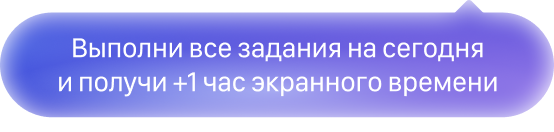
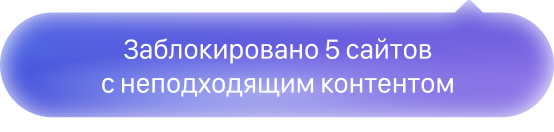
Adjust control-intro copy and header descriptor

Changed region(s): [[0.1227, 0.2727, 0.8899, 0.4848], [0.0921, 0.5455, 0.9206, 0.7273]]

diff --git a/index.html b/index.html
@@ -14,7 +14,7 @@
                 <img src="img/logo-sign.svg" alt="Kids360 Icon" class="header-logo-sign">
                 <div class="header-logo-text-block">
                     <img src="img/logo-text.svg" alt="Kids360 Logo" class="header-logo-text">
-                    <div class="header-logo-descriptor">Осознанные привычки для семьи</div>
+                    <div class="header-logo-descriptor">Родительский контроль и геолокация</div>
                 </div>
             </a>
             <nav class="header-nav">
@@ -86,7 +86,7 @@
             </div>
             <div class="control-intro-content">
                 <h2 class="control-intro-title">Управляйте временем</h2>
-                <p class="control-intro-text">ребёнка в телефоне, блокируйте приложения и контролируйте контент в интернете</p>
+                <p class="control-intro-text">блокируйте приложения и контролируйте контент в интернете по возрасту ребенка.</p>
                 <ul class="control-feature-list">
                     <li>Гибкие лимиты по времени экрана на каждый день недели</li>
                     <li>Мгновенная пауза и запуск занятий в один тап</li>
@@ -108,7 +108,7 @@
             </div>
             <div class="control-intro-content">
                 <h2 class="control-intro-title">Настройте темы обучающего контента</h2>
-                <p class="control-intro-text">в умные паузы для переключения внимания</p>
+                <p class="control-intro-text">в умные паузы будут интегрированы полезные темы для изучения</p>
                 <ul class="control-feature-list">
                     <li>Выбирайте темы: логика, чтение, внимание и математика</li>
                     <li>Подстраивайте сложность под возраст ребёнка</li>
@@ -130,7 +130,7 @@
             </div>
             <div class="control-intro-content">
                 <h2 class="control-intro-title">Формируйте полезные привычки</h2>
-                <p class="control-intro-text">и добавляйте напоминания об уроках и домашних делах</p>
+                <p class="control-intro-text">добавляйте напоминания об уроках и домашних делах</p>
                 <ul class="control-feature-list">
                     <li>Создавайте ежедневные и разовые задачи для ребёнка</li>
                     <li>Настраивайте напоминания об уроках и делах</li>

diff --git a/script.js b/script.js
@@ -99,14 +99,14 @@ document.addEventListener('DOMContentLoaded', () => {
       const isOpen = headerNav.classList.toggle('is-open');
       headerMenuToggle.setAttribute('aria-label', isOpen ? 'Закрыть меню' : 'Открыть меню');
     });
-
+    
     headerNav.querySelectorAll('.header-nav-link').forEach((link) => {
       link.addEventListener('click', () => {
         if (headerNav.classList.contains('is-open')) {
           headerNav.classList.remove('is-open');
           headerMenuToggle.setAttribute('aria-label', 'Открыть меню');
-        }
-      });
+            }
+        });
     });
   };
 
@@ -116,7 +116,7 @@ document.addEventListener('DOMContentLoaded', () => {
 
     const clouds = Array.from(container.querySelectorAll('.hero-cloud'));
     if (!clouds.length) return;
-
+            
     const states = clouds.map((el, index) => ({
       el,
       x: 0,
@@ -154,12 +154,12 @@ document.addEventListener('DOMContentLoaded', () => {
           state.x = -cloudWidth - Math.random() * (containerWidth * 0.3);
         } else {
           state.x = containerWidth + Math.random() * (containerWidth * 0.3);
-        }
-      }
+                }
+            }
 
       el.style.transform = `translate3d(${state.x}px, 0, 0)`;
     };
-
+    
     // начальная расстановка — равномерно по ширине
     requestAnimationFrame(() => {
       states.forEach((s) => initCloud(s, true));
@@ -178,7 +178,7 @@ document.addEventListener('DOMContentLoaded', () => {
         const cloudWidth = el.offsetWidth || 0;
 
         state.x += state.direction * state.speed * dt;
-
+        
         if (state.direction > 0 && state.x > containerWidth + cloudWidth) {
           initCloud(state, false);
         } else if (state.direction < 0 && state.x < -cloudWidth) {
@@ -280,7 +280,7 @@ document.addEventListener('DOMContentLoaded', () => {
       baseCards.forEach((card) => {
         const clone = card.cloneNode(true);
         track.appendChild(clone);
-      });
+});
     }
 
     let items = Array.from(track.children).map((el) => ({
@@ -344,8 +344,8 @@ document.addEventListener('DOMContentLoaded', () => {
 
     if (!('IntersectionObserver' in window)) {
       showCards();
-      return;
-    }
+            return;
+        }
 
     const observer = new IntersectionObserver(
       (entries) => {

diff --git a/styles.css b/styles.css
@@ -463,7 +463,7 @@ body {
 }
 
 .control-intro {
-    padding: 48px 0 96px;
+    padding: 48px 0 48px;
     background-color: #ffffff;
 }
 
@@ -1361,7 +1361,7 @@ body {
     }
 
     .control-intro {
-        padding: 40px 0 56px;
+        padding: 40px 0 28px;
     }
 
     .control-intro-inner {
